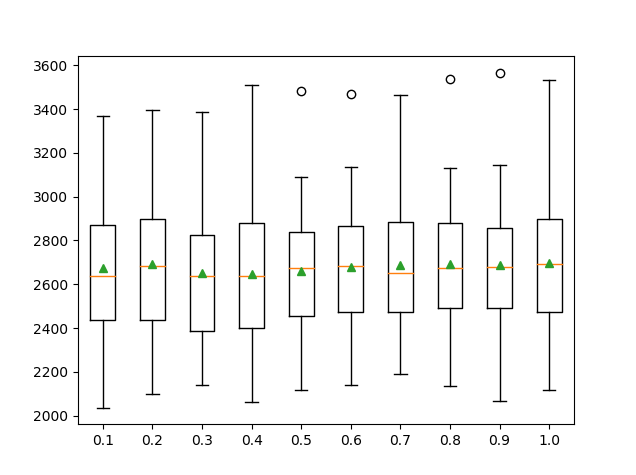
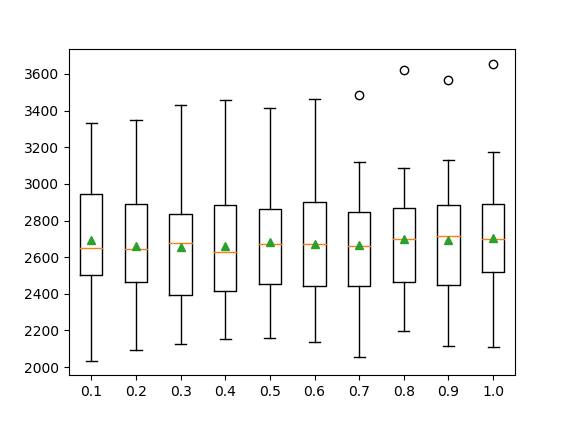
fixing bugs in the files

diff --git a/demo/random_forest.py b/demo/random_forest.py
@@ -1,0 +1,61 @@
+''' 
+Random Forest Analysis 
+This is a regressor random forest that aims to predict the charges (insurance) based on the variables in the dataset
+'''
+from exploratory_analysis import data
+
+import pandas as pd   
+import matplotlib.pyplot as plt 
+import numpy as np 
+from numpy import mean
+from numpy import std 
+from numpy import arange
+from sklearn.model_selection import cross_val_score 
+from sklearn.model_selection import RepeatedKFold 
+from sklearn.ensemble import RandomForestRegressor 
+
+dataX = data.iloc[:,:-1] 
+dataY = data.iloc[:,6]
+''' 
+This part of the program was adapted from a regressor model on "Machine Learning Mastery" 
+url: https://machinelearningmastery.com/random-forest-ensemble-in-python/ 
+*** code adapted from the above url ***
+'''
+
+def get_models(): 
+    models = dict() 
+    #exploting ratios from 10% to 100% 
+    for i in arange(0.1, 1.1, 0.1): 
+        key = "%.1f" % i 
+        #setting the max samples to none 
+        if i == 1.0: 
+            i = None 
+        models[key] = RandomForestRegressor(max_samples = i)
+    return models 
+
+def evaluate_model(model, x, y): 
+    #defining the evaluation procedure 
+    cv = RepeatedKFold(n_splits = 10, n_repeats = 3, random_state = 1) 
+    scores = cross_val_score(model, dataX, dataY, scoring = "neg_mean_absolute_error", cv = cv, n_jobs = 1, error_score = "raise")
+    #scores = cross_val_score(model, dataX, dataY, scoring = "neg_mean_squared_error", cv = cv, n_jobs = 1, error_score = "raise")
+
+    return np.absolute(scores) 
+
+models = get_models() 
+results, names = list(), list() 
+
+for name, model in models.items(): 
+    #evaluate the model 
+    scores = evaluate_model(model, dataX, dataY)
+    #storing the results 
+    results.append(scores) 
+    names.append(name) 
+    #summarizing the performance 
+    print("Mean MAE scores and STD", name, mean(scores), std(scores)) 
+    #print("RMSE scores and STD", name, mean(np.sqrt(scores)))
+
+#ans = np.sqrt(results)
+#converting the ans variable to a list in order to plot it with the names list - otherwise it won't run
+#ans = list(ans)
+plt.boxplot(results, labels = names, showmeans = True) 
+plt.show()
